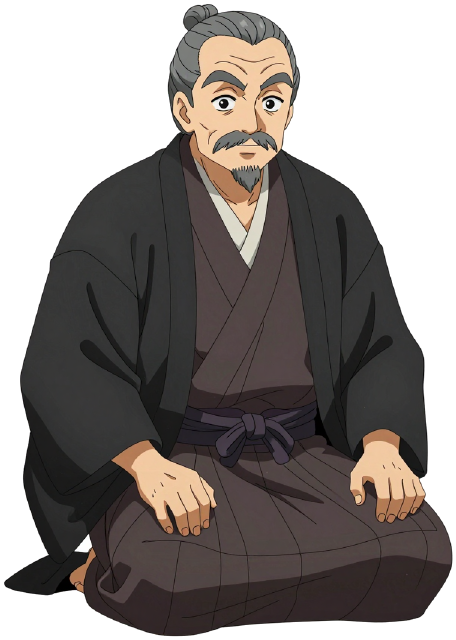
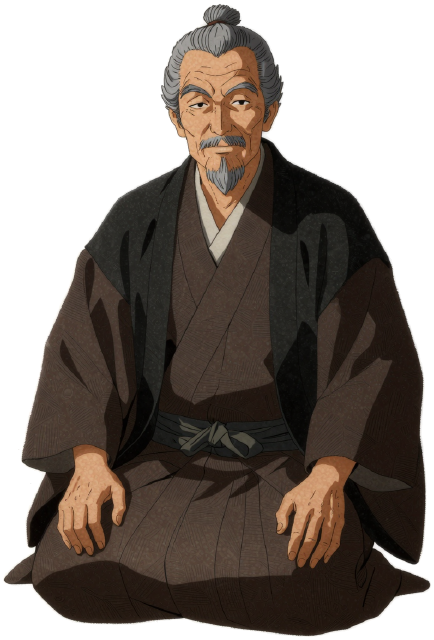
2.54.1 壺振り・賭場の胴元・市場の商人の絵を描き直す（リアル寄りに描いた絵を元に、AIっぽさを抑えたアニメ調のセル塗りに）

diff --git a/js/config.js b/js/config.js
@@ -1,6 +1,6 @@
 // 基本設定（数値はここで調整）
 window.SGK = window.SGK || {};
-SGK.VERSION = '2.54.0'; // 上げるときは index.html の <meta name="sgk-ver"> も同じ値に
+SGK.VERSION = '2.54.1'; // 上げるときは index.html の <meta name="sgk-ver"> も同じ値に
 SGK.SAVE_SCHEMA = 7; // セーブデータの形式番号（形式を変えたら上げて、save.js の migrate に変換を書く）
 SGK.CFG = {
   MIN_PER_SEC: 15,      // 現実1秒 = ゲーム内15分（1日 = 96秒）

diff --git a/index.html b/index.html
@@ -3,7 +3,7 @@
 <head>
 <meta charset="utf-8">
 <meta name="viewport" content="width=device-width,initial-scale=1,maximum-scale=1,user-scalable=no">
-<meta name="sgk-ver" content="2.54.0">
+<meta name="sgk-ver" content="2.54.1">
 <title>天下往来</title>
 <style>
   :root { --ink:#efe6cc; --panel:rgba(24,20,15,.88); --line:#8a7448; --gold:#f2c14e; }

diff --git a/tools/anime_redo.py b/tools/anime_redo.py
@@ -1,0 +1,47 @@
+"""2.54.0 リアル寄りの人物の絵を元に、ポーズ・顔立ちを保ったままアニメ調に描き直す（ComfyUI の Z-Image Turbo で img2img）。
+使い方: python tools/anime_redo.py 出力フォルダ 元.png [元.png ...] [--denoise 0.65] [--seed N]
+・元の絵を ComfyUI に送り、絵柄だけを替える（denoise が大きいほど元から離れる）。出力は 元の名前_a<denoise>.png
+・AIっぽさ（つやつやのエアブラシ塗り・描き込み過多の髪・光るふち・ぼかし）を避け、TVアニメのセル塗りに寄せる
+"""
+import json, os, sys, uuid, urllib.request
+sys.path.insert(0, os.path.dirname(os.path.abspath(__file__)))
+from gen_creature_art import COMFY, names, call
+from gen_cute import KINDS, CHAR
+import gen_creature_art as G
+
+ANIME = ("hand drawn japanese TV anime cel illustration, same pose, same clothes, same face shape and age, "
+         "clean uniform black lineart with even line weight, flat cel shading with only two tones per color, "
+         "simple flat colors, limited muted palette, few simple hair strands drawn as clumps, natural adult face drawn simply, "
+         "matte skin with no highlights, simple muscle lines only, no gradients, no airbrush, no glossy skin, no shine, no glow, no rim light, no texture noise, "
+         "plain pure white background, no text")
+
+
+def upload(path):
+    b = "----sgk" + uuid.uuid4().hex; name = "sgk_" + os.path.basename(path)
+    body = (f"--{b}\r\nContent-Disposition: form-data; name=\"image\"; filename=\"{name}\"\r\nContent-Type: image/png\r\n\r\n").encode() + open(path, "rb").read() + f"\r\n--{b}\r\nContent-Disposition: form-data; name=\"overwrite\"\r\n\r\ntrue\r\n--{b}--\r\n".encode()
+    r = urllib.request.Request(COMFY + "/upload/image", data=body, headers={"Content-Type": "multipart/form-data; boundary=" + b})
+    return json.loads(urllib.request.urlopen(r, timeout=60).read())["name"]
+
+
+def main():
+    a = sys.argv[1:]; den, seed = 0.55, 2540
+    if "--denoise" in a: i = a.index("--denoise"); den = float(a[i + 1]); del a[i:i + 2]
+    if "--seed" in a: i = a.index("--seed"); seed = int(a[i + 1]); del a[i:i + 2]
+    out, srcs = a[0], a[1:]; os.makedirs(out, exist_ok=True)
+    unet, clip, vae = names()
+    for src in srcs:
+        dst = os.path.join(out, os.path.basename(src)[:-4] + f"_a{int(den * 100)}.png")
+        if os.path.exists(dst): print("exists:", dst); continue
+        # 元の絵の説明（gen_cute.py の c_〇〇。x_dealer_シード.png → c_dealer）を先頭に置き、持ち物などが別の物に変わらないようにする
+        desc = KINDS["c_" + os.path.basename(src).split("_")[1]][0].replace(CHAR, "")
+        wf = G.workflow(desc + ". " + ANIME, seed, unet, clip, vae)
+        wf["11"] = {"class_type": "LoadImage", "inputs": {"image": upload(src)}}
+        wf["7"] = {"class_type": "VAEEncode", "inputs": {"pixels": ["11", 0], "vae": ["3", 0]}}
+        wf["8"]["inputs"]["denoise"] = den
+        data = G.run(wf)
+        with open(dst, "xb") as f: f.write(data)
+        print("made:", dst, flush=True)
+
+
+if __name__ == "__main__":
+    main()

diff --git a/tools/gen_cute.py b/tools/gen_cute.py
@@ -120,6 +120,13 @@ for _k, _pose in {"ru1_utazu": "POSE: she points one finger playfully at the vie
                   "ru2_utazu": "POSE: she leans forward with both hands resting on her knees, smiling up at the viewer"}.items():
     KINDS[_k] = (_pose + ". " + _p + ". " + _pose, 832, 1216)
 
+# 2.54.0 壺振り・胴元（親分）・市場の商人をリアル寄りに描き直す（x_〇〇）。人の顔・肌・布の質感は写実的に、でも絵として描いたもの
+REAL = ", semi-realistic painted portrait, realistic human face and proportions with natural skin texture and real wrinkles, realistic fabric folds, painterly brush strokes, cinematic warm lighting, like a high quality japanese historical drama game character illustration, not anime, not a photo"
+CHAR_REAL = CHAR.replace(ANIME, REAL)
+for _k in ("c_dealer", "c_boss3", "c_merchant"):
+    _p, _w, _h = KINDS[_k]
+    KINDS["x_" + _k[2:]] = (_p.replace(CHAR, CHAR_REAL).replace("handsome cool young", "lean sharp-eyed man in his late twenties, a"), _w, _h)
+
 
 def main():
     a = sys.argv[1:]
